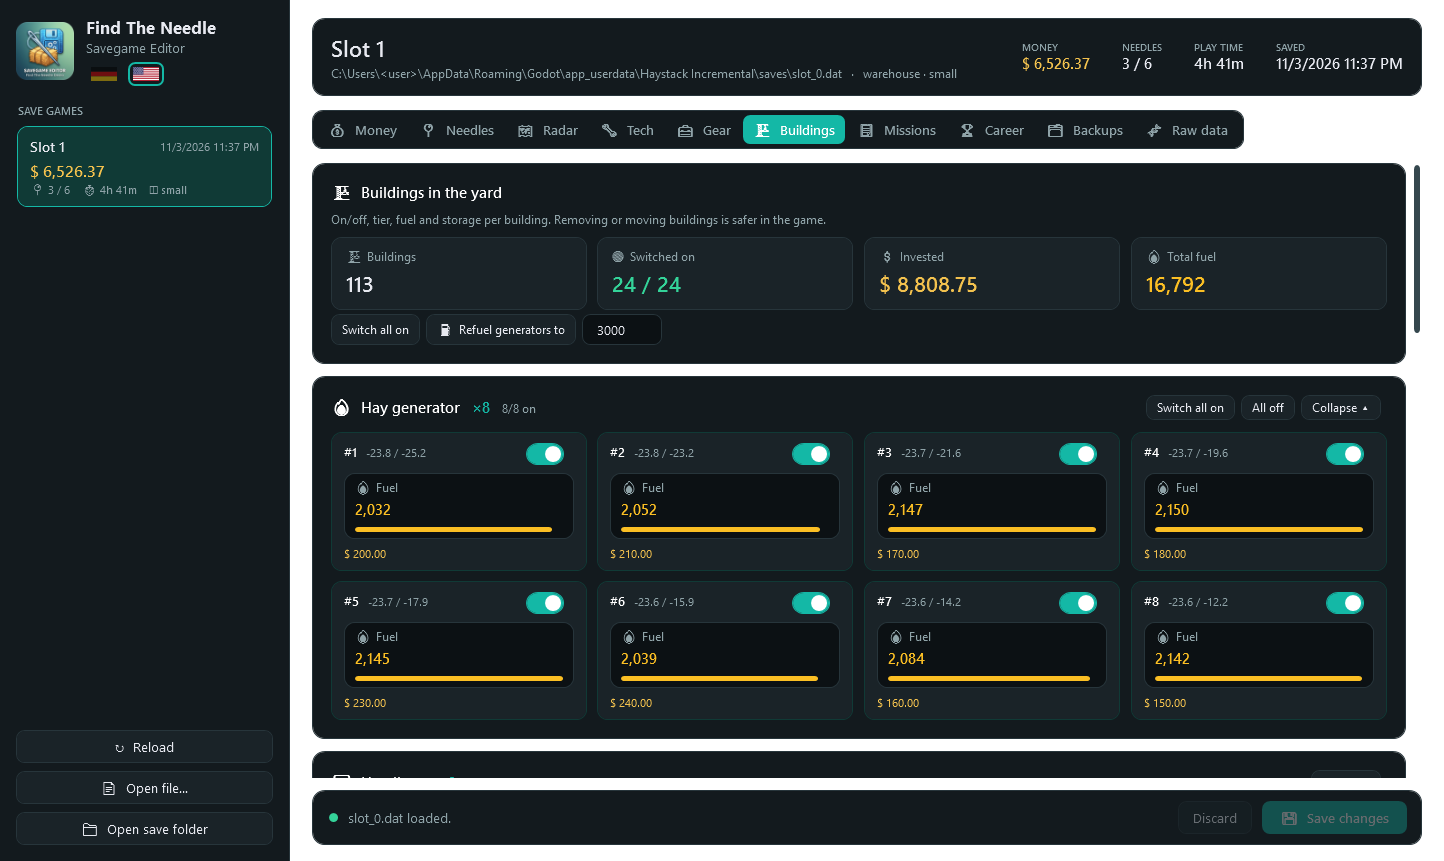
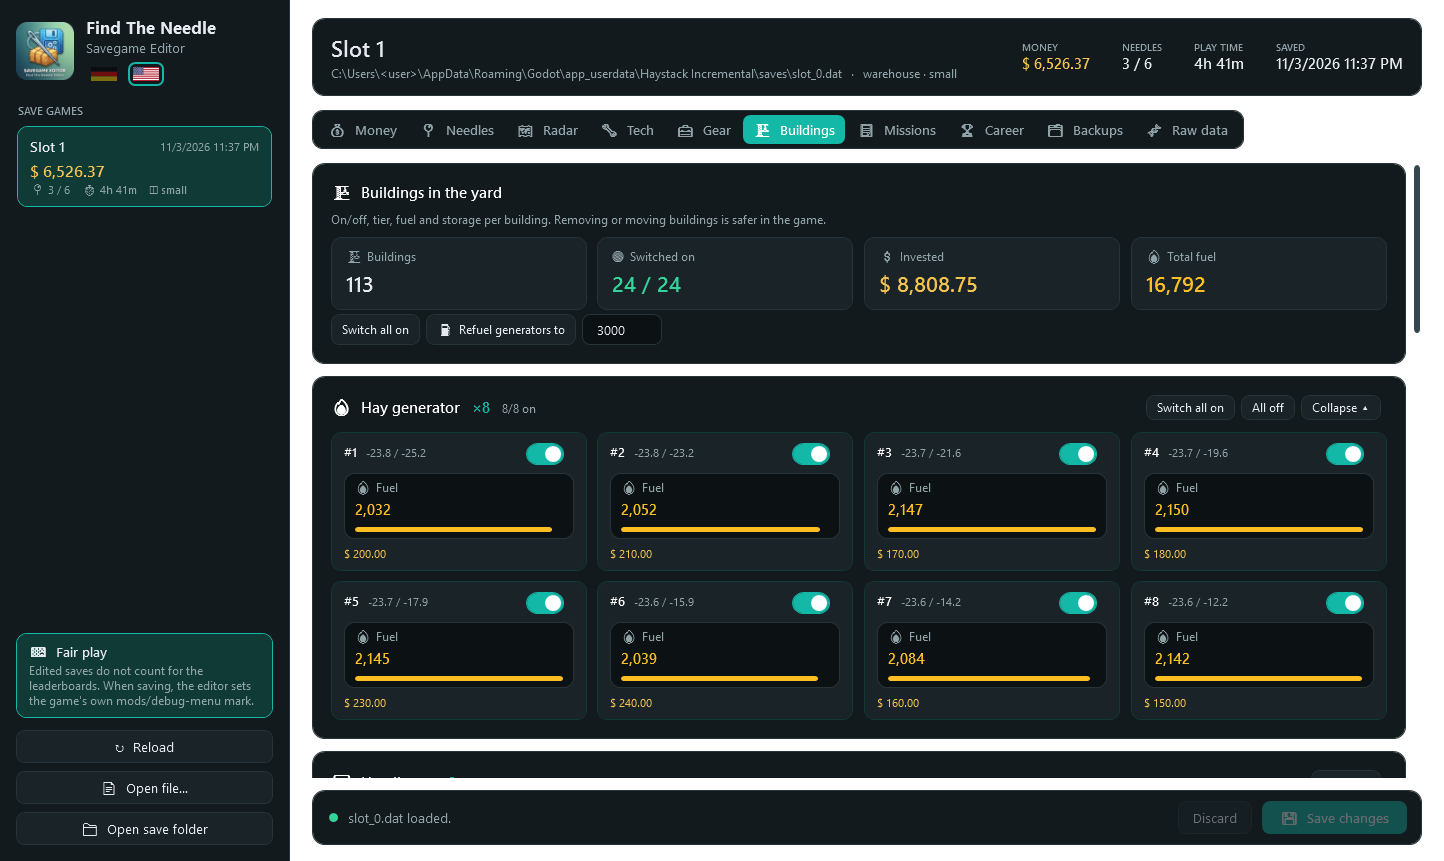
Fair play: edited saves never count for the leaderboards
Every save now sets the game's own marks for mods/debug menu:
state.debug_used in the slot and debug_tainted=true in profile.cfg.
The debug switch is removed from the Money tab, a sidebar notice
explains the behaviour, README/CHANGELOG/screenshots updated.

Changed region(s): [[0.0, 0.7247, 0.187, 0.8455]]

diff --git a/src/FindTheNeedleEditor/MainWindow.xaml b/src/FindTheNeedleEditor/MainWindow.xaml
@@ -58,6 +58,13 @@
                 </StackPanel>
 
                 <StackPanel DockPanel.Dock="Bottom" Margin="0,12,0,0">
+                    <Border Background="{StaticResource AccentSoft}" BorderBrush="{StaticResource Accent}" BorderThickness="1" CornerRadius="10"
+                            Padding="12,9" Margin="0,0,0,12" ToolTip="{l:T FairPlayTip}">
+                        <StackPanel>
+                            <TextBlock Text="{l:T FairPlayTitle}" FontWeight="SemiBold" Margin="0,0,0,3" />
+                            <TextBlock Text="{l:T FairPlay}" TextWrapping="Wrap" FontSize="11.5" Foreground="{StaticResource Muted}" />
+                        </StackPanel>
+                    </Border>
                     <Button x:Name="FindKeyButton" Content="{l:T FindKey}" Click="FindKey_Click" Margin="0,0,0,8" Visibility="Collapsed"
                             BorderBrush="{StaticResource Warn}" ToolTip="{l:T FindKeyHint}" />
                     <Button Content="{l:T Reload}" Click="Reload_Click" Margin="0,0,0,8" />

diff --git a/src/FindTheNeedleEditor/Core/ProfileCfg.cs b/src/FindTheNeedleEditor/Core/ProfileCfg.cs
@@ -13,6 +13,7 @@ public sealed class ProfileCfg
     public string Path { get; }
     readonly List<string> lines;
     readonly Dictionary<string, int> careerLine = [];
+    int careerHeader = -1;
     public DateTime LoadedWriteTime { get; }
 
     /// <summary>Numeric [career] values in file order.</summary>
@@ -27,17 +28,15 @@ public sealed class ProfileCfg
         for (int i = 0; i < lines.Count; i++)
         {
             var l = lines[i];
-            if (l.StartsWith('[') && l.EndsWith(']')) { section = l[1..^1]; continue; }
+            if (l.StartsWith('[') && l.EndsWith(']')) { section = l[1..^1]; if (section == "career") careerHeader = i; continue; }
             if (section != "career") continue;
             int eq = l.IndexOf('=');
             if (eq <= 0) continue;
             var key = l[..eq];
             var val = l[(eq + 1)..];
+            careerLine[key] = i;
             if (double.TryParse(val, NumberStyles.Float, CultureInfo.InvariantCulture, out var d))
-            {
-                careerLine[key] = i;
                 Career.Add((key, d, !val.Contains('.') && !val.Contains('e')));
-            }
         }
     }
 
@@ -45,6 +44,33 @@ public sealed class ProfileCfg
     {
         try { return File.Exists(path) ? new ProfileCfg(path) : null; }
         catch (Exception) { return null; }
+    }
+
+    /// <summary>[career] debug_tainted: the game's own "mods or debug menu were used on this PC" mark,
+    /// which keeps the player off the leaderboards.</summary>
+    public bool IsTainted => careerLine.TryGetValue("debug_tainted", out var i) && lines[i].EndsWith("=true");
+
+    /// <summary>Sets debug_tainted=true (adds the key if missing). Returns true when the file changed.</summary>
+    public bool MarkTainted()
+    {
+        if (IsTainted) return false;
+        if (careerLine.TryGetValue("debug_tainted", out var i)) lines[i] = "debug_tainted=true";
+        else if (careerHeader >= 0)
+        {
+            lines.Insert(careerHeader + 1, "debug_tainted=true");
+            foreach (var k in careerLine.Keys.ToList()) if (careerLine[k] > careerHeader) careerLine[k]++;
+            careerLine["debug_tainted"] = careerHeader + 1;
+        }
+        else
+        {
+            lines.Insert(0, "");
+            lines.Insert(0, "debug_tainted=true");
+            lines.Insert(0, "[career]");
+            careerHeader = 0;
+            foreach (var k in careerLine.Keys.ToList()) careerLine[k] += 3;
+            careerLine["debug_tainted"] = 1;
+        }
+        return true;
     }
 
     public void Set(string key, double value)

diff --git a/src/FindTheNeedleEditor/Core/Loc.cs b/src/FindTheNeedleEditor/Core/Loc.cs
@@ -60,7 +60,7 @@ public sealed class Loc : INotifyPropertyChanged
         ["Unsaved"] = ("Ungespeicherte Änderungen.", "Unsaved changes."),
         ["NoSavesFound"] = ("Keine Spielstände gefunden in {0}", "No save games found in {0}"),
         ["CannotEdit"] = ("Dieser Spielstand kann nicht geladen werden: {0}", "This save game cannot be loaded: {0}"),
-        ["Saved"] = ("Gespeichert ✓  Backup: {0}", "Saved ✓  Backup: {0}"),
+        ["Saved"] = ("Gespeichert ✓  Backup: {0}  ·  🏁 für Bestenlisten markiert", "Saved ✓  Backup: {0}  ·  🏁 marked for leaderboards"),
         ["SaveFailed"] = ("Speichern fehlgeschlagen", "Saving failed"),
         ["SaveFailedStatus"] = ("Speichern fehlgeschlagen: {0}", "Saving failed: {0}"),
         ["InvalidInput"] = ("Ungültige Eingabe: {0}", "Invalid input: {0}"),
@@ -330,6 +330,11 @@ public sealed class Loc : INotifyPropertyChanged
         ["FindKeyProgress"] = ("Suche Schlüssel im Spiel … {0:0} %", "Searching the game for the key … {0:0} %"),
         ["FindKeyNone"] = ("Kein Schlüssel gefunden. Spielstand im Spiel laden und nochmal versuchen.", "No key found. Load the save in the game and try again."),
         ["FindKeyOk"] = ("Schlüssel gefunden und gemerkt ✓", "Key found and remembered ✓"),
+        ["FairPlayTitle"] = ("🏁  Fair Play", "🏁  Fair play"),
+        ["FairPlay"] = ("Bearbeitete Spielstände zählen nicht für die Bestenlisten. Beim Speichern setzt der Editor die Markierung des Spiels für Mods/Debug-Menü.",
+                        "Edited saves do not count for the leaderboards. When saving, the editor sets the game's own mods/debug-menu mark."),
+        ["FairPlayTip"] = ("Gesetzt werden: debug_used im Spielstand (dieser Run) und debug_tainted in profile.cfg (dieser PC). Das Spiel zeigt dann selbst: „Mods or the debug menu were used on this PC, so you will not show up on the leaderboards.“",
+                           "Set are: debug_used in the save (this run) and debug_tainted in profile.cfg (this PC). The game then says itself: \"Mods or the debug menu were used on this PC, so you will not show up on the leaderboards.\""),
         ["AddEntry"] = ("hinzufügen", "add"),
         ["AddEntryHint"] = ("ID eintippen und Enter", "Type an id and press Enter"),
         ["TechHint2"] = ("Jeder Bereich zeigt Basis-Technik und die Upgrades, die darauf aufbauen (aus den IDs abgeleitet). Ausgefüllter Punkt = gekauft, Ring = gesperrt. Die Maximalstufe legt das Spiel fest.",

diff --git a/src/FindTheNeedleEditor/MainWindow.xaml.cs b/src/FindTheNeedleEditor/MainWindow.xaml.cs
@@ -270,27 +270,25 @@ public partial class MainWindow : Window
             FocusManager.SetFocusedElement(this, this); // commit pending text box edits
             Keyboard.ClearFocus();
 
+            // stale checks first, so nothing is half written
+            if ((dirty && File.Exists(doc.Path) && File.GetLastWriteTimeUtc(doc.Path) != doc.LoadedWriteTime)
+                || (profile is not null && File.Exists(profile.Path) && File.GetLastWriteTimeUtc(profile.Path) != profile.LoadedWriteTime))
+            {
+                MessageBox.Show(this, Loc.T("ChangedOnDisk"), Loc.T("SaveFailed"), MessageBoxButton.OK, MessageBoxImage.Warning);
+                return;
+            }
+
             string backupName = "–";
             if (dirty)
             {
-                if (File.Exists(doc.Path) && File.GetLastWriteTimeUtc(doc.Path) != doc.LoadedWriteTime)
-                {
-                    MessageBox.Show(this, Loc.T("ChangedOnDisk"), Loc.T("SaveFailed"), MessageBoxButton.OK, MessageBoxImage.Warning);
-                    return;
-                }
+                doc.MarkEdited(); // fair play: an edited run never counts for the leaderboards
                 var bytes = doc.Build();
                 if (File.Exists(doc.Path)) backupName = Path.GetFileName(SaveStore.Backup(Root, doc.Path));
                 SaveStore.WriteAtomic(doc.Path, bytes);
             }
-            if (profileDirty && profile is not null)
-            {
-                if (File.GetLastWriteTimeUtc(profile.Path) != profile.LoadedWriteTime)
-                {
-                    MessageBox.Show(this, Loc.T("ChangedOnDisk"), Loc.T("SaveFailed"), MessageBoxButton.OK, MessageBoxImage.Warning);
-                    return;
-                }
-                profile.Save();
-            }
+            // fair play: mark this PC like the game does when mods or the debug menu were used
+            bool tainted = profile?.MarkTainted() == true;
+            if ((profileDirty || tainted) && profile is not null) profile.Save();
             var path = doc.Path;
             dirty = profileDirty = false;
             LoadSlots(path);

diff --git a/tests/RoundTrip/Program.cs b/tests/RoundTrip/Program.cs
@@ -28,6 +28,7 @@ if (args.Length == 2 && args[0] == "--edit")
     doc.TechRanks!["belt_speed"] = 9L;
     doc.TechRanks!["jump_height"] = 1L;
     var backup = SaveStore.Backup(root, slot);
+    doc.MarkEdited();
     SaveStore.WriteAtomic(slot, doc.Build());
 
     var re = SaveDoc.Load(slot);
@@ -38,6 +39,7 @@ if (args.Length == 2 && args[0] == "--edit")
     Check(Math.Abs(re.PlayerPos.X - nx) < 1e-4 && Math.Abs(re.PlayerPos.Z - nz) < 1e-4, "player teleported");
     Check(re.TechRanks!.Int("belt_speed") == 9 && re.TechRanks!.Int("jump_height") == 1, "tech ranks");
     Check(File.Exists(backup) && SaveDoc.Load(backup).State.Num("money") != 1234567.5, "backup holds old state");
+    Check(re.State.Bool("debug_used"), "run marked (debug_used = true)");
 
     var prof = ProfileCfg.TryLoad(SaveStore.ProfilePath(root))!;
     var before = File.ReadAllLines(prof.Path).Where(l => !l.StartsWith("best_dug=")).ToList();
@@ -46,6 +48,15 @@ if (args.Length == 2 && args[0] == "--edit")
     var after = File.ReadAllLines(prof.Path);
     Check(after.Contains("best_dug=99999.0"), "profile best_dug written");
     Check(after.Where(l => !l.StartsWith("best_dug=")).SequenceEqual(before), "profile other lines untouched");
+
+    var prof2 = ProfileCfg.TryLoad(SaveStore.ProfilePath(root))!;
+    var beforeTaint = File.ReadAllLines(prof2.Path);
+    Check(prof2.MarkTainted(), "profile taint changes file");
+    prof2.Save();
+    var afterTaint = File.ReadAllLines(prof2.Path);
+    Check(afterTaint.Contains("debug_tainted=true") && !afterTaint.Contains("debug_tainted=false"), "profile debug_tainted = true");
+    Check(afterTaint.Length == beforeTaint.Length && afterTaint.Where((l, i) => l != beforeTaint[i]).Count() == 1, "only that one line changed");
+    Check(!ProfileCfg.TryLoad(prof2.Path)!.MarkTainted(), "second mark is a no-op");
     return fails;
 }
 

diff --git a/src/FindTheNeedleEditor/Pages.cs b/src/FindTheNeedleEditor/Pages.cs
@@ -123,14 +123,13 @@ public partial class MainWindow
         exButtons.Children.Add(UiKit.SmallButton("FuelFull", (_, _) => { if (s.Has("jetpack_fuel")) { s.SetNum("jetpack_fuel", 100); MarkDirty(Loc.T("F_jetpack_fuel")); BuildMoneyTab(); } }));
         ex.Children.Add(exButtons);
         var sw = new WrapPanel();
-        foreach (var k in new[] { "floor_hatch", "run_timed", "contract_pinned", "debug_used" })
+        foreach (var k in new[] { "floor_hatch", "run_timed", "contract_pinned" })
             if (s[k] is bool b)
             {
                 string key = k;
                 sw.Children.Add(UiKit.Switch("C_" + key, b, v => { s[key] = v; MarkDirty(Loc.T("C_" + key)); }));
             }
         ex.Children.Add(sw);
-        ex.Children.Add(UiKit.Hint("DebugHint"));
         two.Children.Add(UiKit.Card(ex, new Thickness(0)));
 
         var hay = new StackPanel();

diff --git a/src/FindTheNeedleEditor/Core/SaveDoc.cs b/src/FindTheNeedleEditor/Core/SaveDoc.cs
@@ -124,6 +124,9 @@ public sealed class SaveDoc
 
     // ---------------------------------------------------------------- save
 
+    /// <summary>Marks the run like the game does when its debug menu was used (no leaderboard for this run).</summary>
+    public void MarkEdited() => State["debug_used"] = true;
+
     /// <summary>Keeps the main-menu preview ("meta") in line with the edited state.</summary>
     public void SyncMeta()
     {

diff --git a/README.md b/README.md
@@ -26,6 +26,21 @@
 
 Unofficial fan tool, not affiliated with the developers of Find The Needle.
 
+## 🏁 Fair play: edited saves stay off the leaderboards
+
+Find The Needle has online leaderboards. **Anything edited with this tool does not count for them – on purpose.**
+
+Every time the editor saves, it sets the same marks the game itself uses when mods or the debug menu were used:
+
+| Mark | Where | Effect |
+|------|-------|--------|
+| `debug_used = true` | the edited save slot | this run is flagged as not ranked |
+| `debug_tainted=true` | `[career]` in `profile.cfg` | this PC is flagged; the game then shows *"Mods or the debug menu were used on this PC, so you will not show up on the leaderboards."* |
+
+This cannot be switched off in the editor, and restoring an old backup does not remove the PC mark. Nothing else is touched: your online identity in `profile.cfg` stays exactly as it is, and the editor never talks to any server.
+
+If you care about your leaderboard spot, **do not save with this editor**. Just looking around (radar, needles, stats) without saving changes nothing.
+
 ## 📡 Haystack radar
 
 The pile in Find The Needle hides a handful of needles under metres of hay. The save stores the full height map of the pile and the exact position of every needle – the radar draws both.
@@ -51,7 +66,7 @@ The pile in Find The Needle hides a handful of needles under metres of hay. The 
 | **Gear** | Shop tools as clickable tiles, the build hotbar as keys 1–9, gifts waiting to be claimed, clear the "new" badges |
 | **Buildings** | Overview (count, switched on, invested, total fuel), one card per building type with on/off switches, fuel bars, storage and tier; switch all on/off, refuel all generators |
 | **Missions** | Current mission, contracts, done/paid lists as chips, spending analysis from the purchase log (by kind, biggest items) |
-| **Career** | Records across all runs from `profile.cfg` (online identity and leaderboard data are never touched) |
+| **Career** | Records across all runs from `profile.cfg` (online identity is never touched) |
 | **Backups** | Automatic backup before every save, manual backup, restore any backup |
 | **Raw data** | The complete save as a tree; every simple value can be edited. Export as JSON or decrypted `.bin`, import `.bin` |
 
@@ -65,6 +80,7 @@ The pile in Find The Needle hides a handful of needles under metres of hay. The 
 
 Also:
 
+- 🏁 Saving marks the run and the PC as not ranked (see [Fair play](#-fair-play-edited-saves-stay-off-the-leaderboards))
 - Unchanged saves are written back byte for byte; every save is decrypted and parsed again before it is written
 - Saving is locked while the game is running (its autosave would overwrite your changes)
 - Refuses to overwrite a slot the game saved after the editor loaded it

diff --git a/CHANGELOG.md b/CHANGELOG.md
@@ -4,6 +4,7 @@
 
 ### New
 
+- **Fair play**: every save marks the run (`debug_used`) and the PC (`debug_tainted` in `profile.cfg`) like the game does for mods/debug menu, so edited saves never count for the leaderboards; a notice in the sidebar explains it
 - **Radar 3D view**: the pile as terrain with all buildings and the player; drag to orbit, wheel to zoom
 - **X-ray mode**: see-through hay with a red beacon above every hidden needle
 - Zoom and pan in the radar top view
@@ -12,6 +13,7 @@
 
 ### Changed
 
+- The "debug flag" switch is gone from the Money tab (the editor sets it on every save)
 - Dark Windows title bar
 - Money, Gear, Buildings and Missions redesigned: value tiles with readable numbers (click to edit), switches, chips and bars instead of tables
 - Tech tab is now a tree per area (base tech → upgrades), with unlock buttons, search and bulk actions
